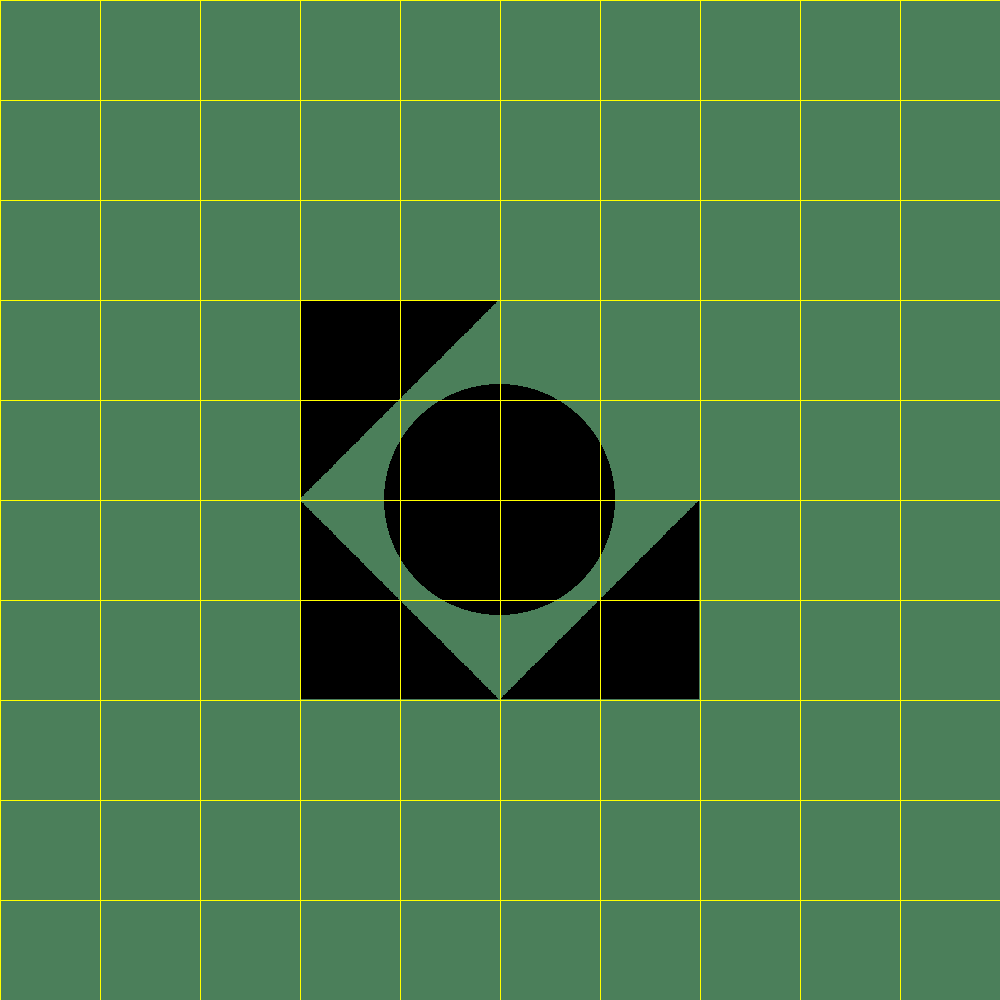
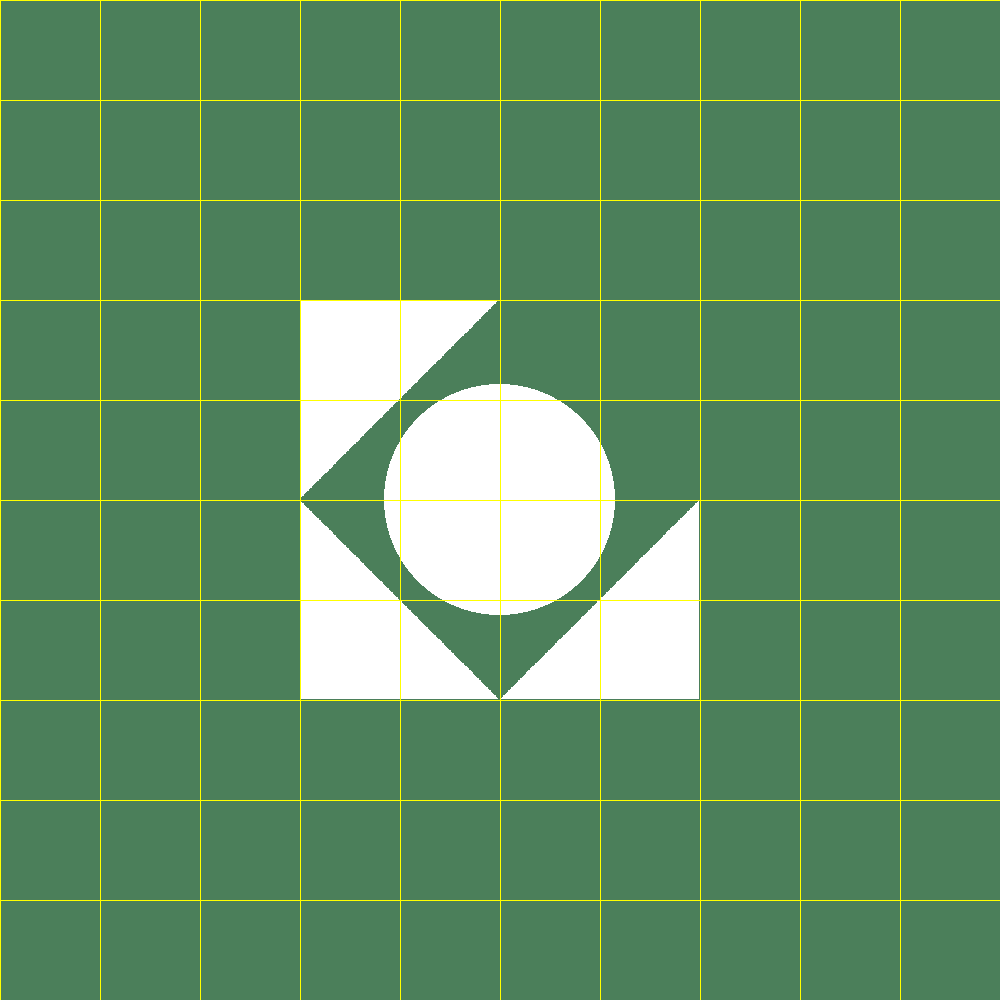
finish with the first improvement!

Changed region(s): [[0.279, 0.279, 0.713, 0.713]]

diff --git a/src/Renderer/RayTracerBasic.java b/src/Renderer/RayTracerBasic.java
@@ -90,6 +90,7 @@ public class RayTracerBasic extends RayTracerBase
     public Color traceRay(List<Ray> rays)
     {
         Color finalColor=null;
+        Color firstColor=null;
         Color colorTmp=new Color(0,0,0);
         for(var ray:rays)
         {
@@ -103,18 +104,20 @@ public class RayTracerBasic extends RayTracerBase
              colorTmp=calcColor(closestPoint, ray) == null ? scene.getBackground() : calcColor(closestPoint, ray);
              if(finalColor==null)
              {
+                 firstColor=colorTmp;
                  finalColor=new Color(0,0,0);
-                 for (int i = 0; i < 9; i++)
-                     finalColor.add(colorTmp);
+//                 for (int i = 0; i < 3; i++)
+                     finalColor=finalColor.add(colorTmp);
              }
 
-            finalColor.add(colorTmp);
+             if(!colorTmp.equals(firstColor))
+                finalColor=finalColor.add(colorTmp);
 
         }
+        if(finalColor.equals(firstColor))
+            return firstColor;
         int size=rays.size();
-        return new Color(finalColor.getColor().getRed()/size,
-                finalColor.getColor().getGreen()/size,
-                finalColor.getColor().getBlue()/size) ;
+        return finalColor.reduce(size);
     }
 
     /**

diff --git a/src/Renderer/Camera.java b/src/Renderer/Camera.java
@@ -278,6 +278,8 @@ public class Camera
 
                     List<Ray> ray = constructRays(nX, nY, j, i);
                     Color pixelColor = rayTracer.traceRay(ray);
+
+
                     imageWriter.writePixel(j, i, pixelColor);
                 }
             }
@@ -316,7 +318,7 @@ public class Camera
      * @param j
      * @param i
      * @return
-     * improving the corners of shapes - mini project 1
+     * improving the jagged edges - mini project 1
      */
     public List<Ray> constructRays(int Nx, int Ny, int j, int i)
     {
@@ -350,11 +352,12 @@ public class Camera
         /**
          * creating Ry*Rx rays for each pixel.
          */
-        for (int t = i; t < Ry; t++)
+        Point newPoint=new Point(Pc.getX()-Rx/2,Pc.getY()+Rx/2,Pc.getZ());
+        for (double t = newPoint.getY(); t >newPoint.getY()-Ry; t-=0.01)
         {
-            for (int k = j; k < Rx; k++)
+            for (double k = newPoint.getX(); k < newPoint.getX()+Rx; k+=0.01)
             {
-               rays.add(new Ray(p0,new Point(t,k,Pc.getZ()).subtract(p0)));
+               rays.add(new Ray(p0,new Point(k,t,Pc.getZ()).subtract(p0)));
             }
         }
 
